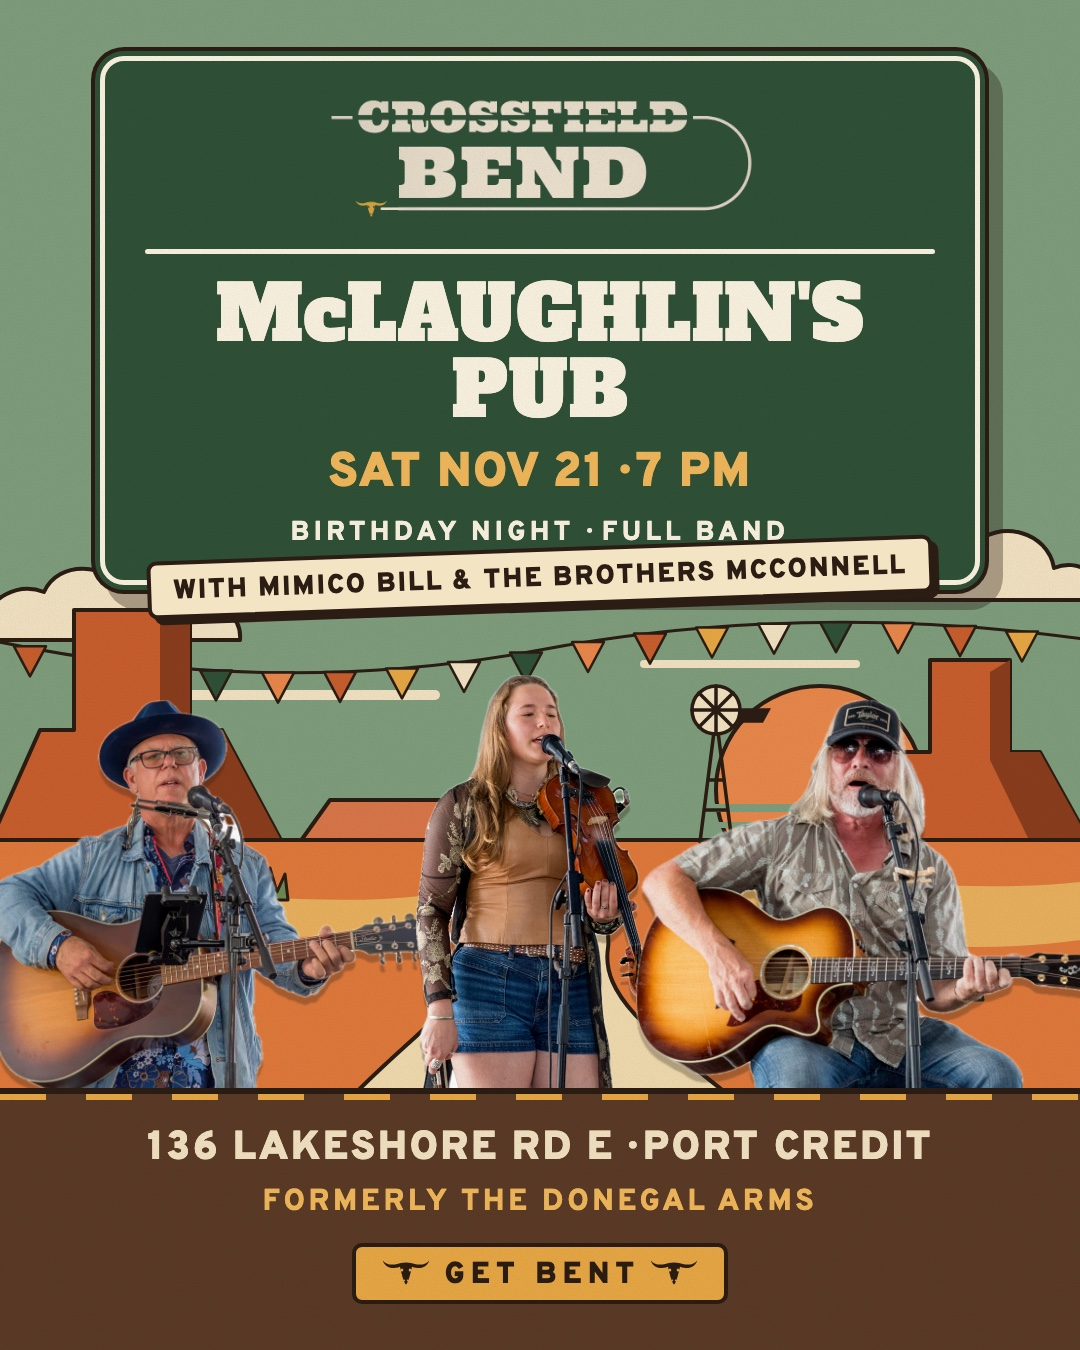
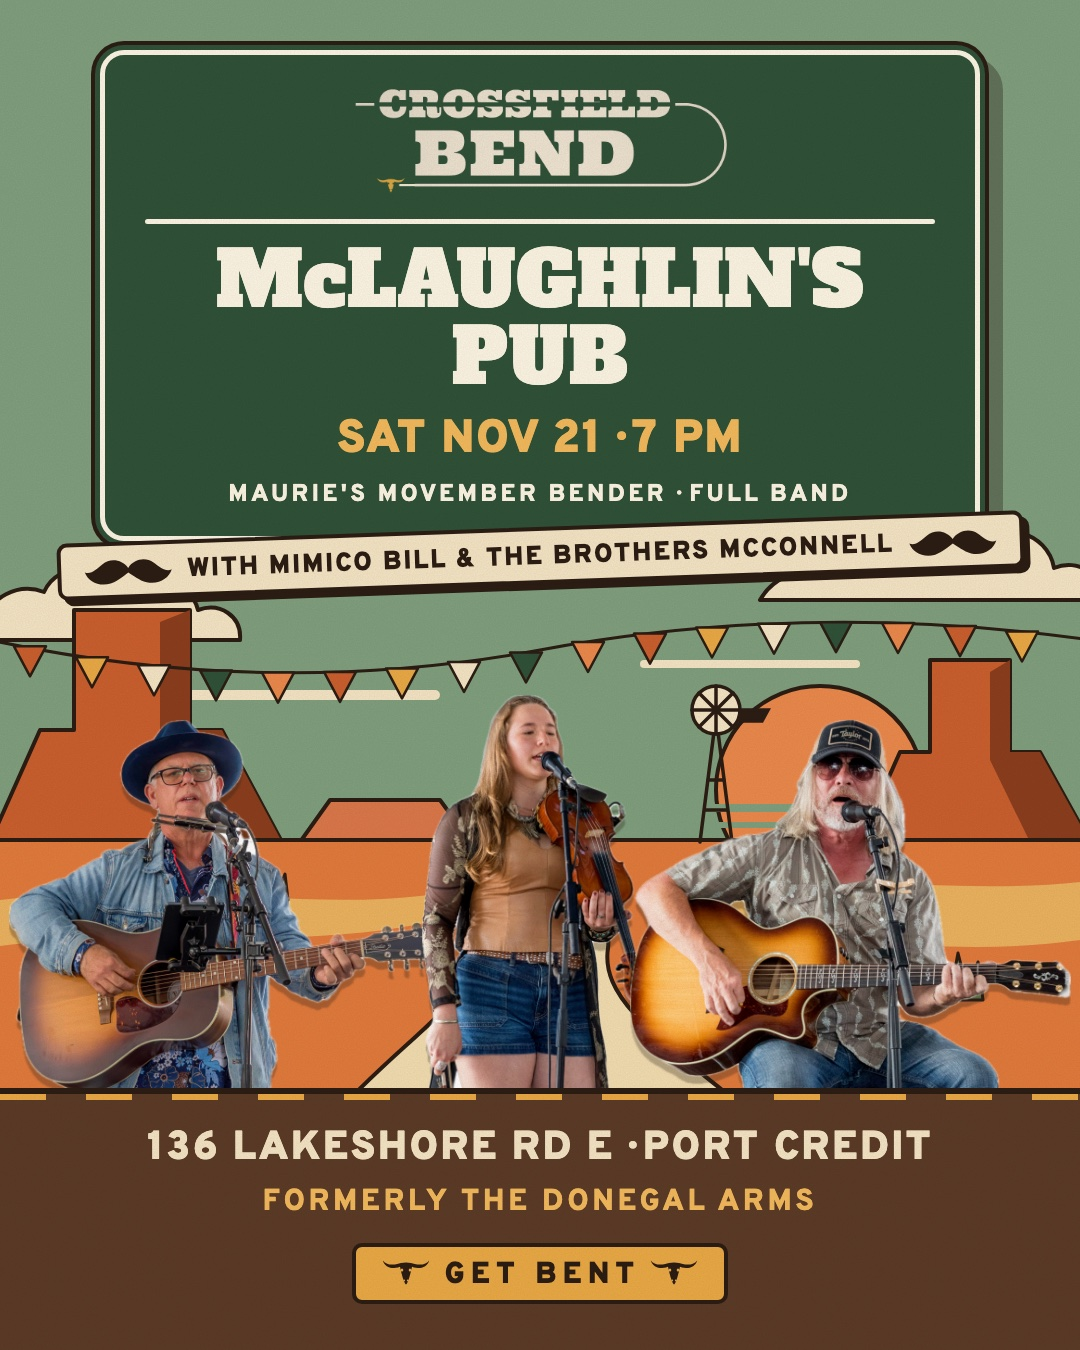
Gig list through New Year's, with a poster for every show
- shows.js matches the band's gig sheet: Maurie's Movember Bender (Nov 21), Bad Santa
  (Dec 10), Festival of Trees (Dec 12), Dave Woods' Christmas Show at the Moonshine Cafe
  (Dec 16), Legion fish and chips (Dec 18), Boxing Day Bender (Dec 26), Polar Bear Dip (Jan 1)
- Tuesday Night Music Club now starts at 7:30
- New posters in the site style for every gig, plus series posters for the Tuesday club
  and the first-Sunday ANAF jam
- Every show row now shows its poster as a thumbnail that opens full size

Changed region(s): [[0.0, 0.0311, 1.0, 0.8089]]

diff --git a/shows.js b/shows.js
@@ -32,18 +32,7 @@
 */
 window.CFB_SHOWS = [
   {
-    title: "Port Credit Legion",
-    venue: "Port Credit Legion",
-    addr: "35 Front St N, Mississauga, ON",
-    area: "Port Credit",
-    start: "2026-11-13T17:30:00-05:00",
-    end: "2026-11-13T20:30:00-05:00",
-    tag: "With Ray Walsh on keys",
-    note: "Roast beef dinner 5–7",
-    poster: "assets/legion-2026-11-13.jpg"
-  },
-  {
-    title: "Birthday night",
+    title: "Maurie's Movember Bender",
     venue: "McLaughlin's Pub",
     addr: "136 Lakeshore Rd E, Mississauga, ON",
     area: "Port Credit",
@@ -57,45 +46,9 @@ window.CFB_SHOWS = [
     venue: "Roc'n Doc's",
     addr: "105 Lakeshore Rd E, Mississauga, ON",
     area: "Port Credit",
-    start: "2026-12-01T19:00:00-05:00",
+    start: "2026-12-01T19:30:00-05:00",
     end: "2026-12-01T23:00:00-05:00",
-    poster: "assets/tuesday-poster-full.jpg"
-  },
-  {
-    title: "Tuesday Night Music Club",
-    venue: "Roc'n Doc's",
-    addr: "105 Lakeshore Rd E, Mississauga, ON",
-    area: "Port Credit",
-    start: "2026-12-15T19:00:00-05:00",
-    end: "2026-12-15T23:00:00-05:00",
-    poster: "assets/tuesday-poster-full.jpg"
-  },
-  {
-    title: "Tuesday Night Music Club",
-    venue: "Roc'n Doc's",
-    addr: "105 Lakeshore Rd E, Mississauga, ON",
-    area: "Port Credit",
-    start: "2026-12-29T19:00:00-05:00",
-    end: "2026-12-29T23:00:00-05:00",
-    poster: "assets/tuesday-poster-full.jpg"
-  },
-  {
-    title: "Tuesday Night Music Club",
-    venue: "Roc'n Doc's",
-    addr: "105 Lakeshore Rd E, Mississauga, ON",
-    area: "Port Credit",
-    start: "2027-01-12T19:00:00-05:00",
-    end: "2027-01-12T23:00:00-05:00",
-    poster: "assets/tuesday-poster-full.jpg"
-  },
-  {
-    title: "Tuesday Night Music Club",
-    venue: "Roc'n Doc's",
-    addr: "105 Lakeshore Rd E, Mississauga, ON",
-    area: "Port Credit",
-    start: "2027-01-26T19:00:00-05:00",
-    end: "2027-01-26T23:00:00-05:00",
-    poster: "assets/tuesday-poster-full.jpg"
+    poster: "assets/poster-tnmc.jpg"
   },
   {
     title: "House of Musical Redemption",
@@ -105,7 +58,81 @@ window.CFB_SHOWS = [
     start: "2026-12-06T13:00:00-05:00",
     end: "2026-12-06T16:00:00-05:00",
     tag: "Jam",
-    note: "First Sunday of the month · all jammers welcome"
+    note: "First Sunday of the month · all jammers welcome",
+    poster: "assets/poster-anaf.jpg"
+  },
+  {
+    title: "Alexander Quail's Bad Santa",
+    venue: "McLaughlin's Pub",
+    addr: "136 Lakeshore Rd E, Mississauga, ON",
+    area: "Port Credit",
+    start: "2026-12-10T20:00:00-05:00",
+    tag: "Special guest appearance",
+    note: "Formerly The Donegal Arms",
+    poster: "assets/poster-2026-12-10.jpg"
+  },
+  {
+    title: "Festival of Trees",
+    venue: "Small Arms Inspection Building",
+    addr: "1352 Lakeshore Rd E, Mississauga, ON",
+    area: "Lakeview",
+    start: "2026-12-12T12:30:00-05:00",
+    end: "2026-12-12T16:30:00-05:00",
+    poster: "assets/poster-2026-12-12.jpg"
+  },
+  {
+    title: "Tuesday Night Music Club",
+    venue: "Roc'n Doc's",
+    addr: "105 Lakeshore Rd E, Mississauga, ON",
+    area: "Port Credit",
+    start: "2026-12-15T19:30:00-05:00",
+    end: "2026-12-15T23:00:00-05:00",
+    poster: "assets/poster-tnmc.jpg"
+  },
+  {
+    title: "Dave Woods' Christmas Show",
+    venue: "The Moonshine Cafe",
+    addr: "568 Kerr St, Oakville, ON",
+    area: "Oakville",
+    start: "2026-12-16T20:00:00-05:00",
+    poster: "assets/poster-2026-12-16.jpg"
+  },
+  {
+    title: "Port Credit Legion",
+    venue: "Port Credit Legion",
+    addr: "35 Front St N, Mississauga, ON",
+    area: "Port Credit",
+    start: "2026-12-18T17:30:00-05:00",
+    end: "2026-12-18T20:30:00-05:00",
+    note: "Fish and chips",
+    poster: "assets/poster-2026-12-18.jpg"
+  },
+  {
+    title: "Boxing Day Bender",
+    venue: "McLaughlin's Pub",
+    addr: "136 Lakeshore Rd E, Mississauga, ON",
+    area: "Port Credit",
+    start: "2026-12-26T14:00:00-05:00",
+    note: "Formerly The Donegal Arms",
+    poster: "assets/poster-2026-12-26.jpg"
+  },
+  {
+    title: "Tuesday Night Music Club",
+    venue: "Roc'n Doc's",
+    addr: "105 Lakeshore Rd E, Mississauga, ON",
+    area: "Port Credit",
+    start: "2026-12-29T19:30:00-05:00",
+    end: "2026-12-29T23:00:00-05:00",
+    poster: "assets/poster-tnmc.jpg"
+  },
+  {
+    title: "Polar Bear Dip",
+    venue: "McLaughlin's Pub",
+    addr: "136 Lakeshore Rd E, Mississauga, ON",
+    area: "Port Credit",
+    start: "2027-01-01T13:00:00-05:00",
+    note: "Formerly The Donegal Arms",
+    poster: "assets/poster-2027-01-01.jpg"
   },
   {
     title: "House of Musical Redemption",
@@ -115,7 +142,26 @@ window.CFB_SHOWS = [
     start: "2027-01-03T13:00:00-05:00",
     end: "2027-01-03T16:00:00-05:00",
     tag: "Jam",
-    note: "First Sunday of the month · all jammers welcome"
+    note: "First Sunday of the month · all jammers welcome",
+    poster: "assets/poster-anaf.jpg"
+  },
+  {
+    title: "Tuesday Night Music Club",
+    venue: "Roc'n Doc's",
+    addr: "105 Lakeshore Rd E, Mississauga, ON",
+    area: "Port Credit",
+    start: "2027-01-12T19:30:00-05:00",
+    end: "2027-01-12T23:00:00-05:00",
+    poster: "assets/poster-tnmc.jpg"
+  },
+  {
+    title: "Tuesday Night Music Club",
+    venue: "Roc'n Doc's",
+    addr: "105 Lakeshore Rd E, Mississauga, ON",
+    area: "Port Credit",
+    start: "2027-01-26T19:30:00-05:00",
+    end: "2027-01-26T23:00:00-05:00",
+    poster: "assets/poster-tnmc.jpg"
   },
   {
     title: "House of Musical Redemption",
@@ -125,7 +171,8 @@ window.CFB_SHOWS = [
     start: "2027-02-07T13:00:00-05:00",
     end: "2027-02-07T16:00:00-05:00",
     tag: "Jam",
-    note: "First Sunday of the month · all jammers welcome"
+    note: "First Sunday of the month · all jammers welcome",
+    poster: "assets/poster-anaf.jpg"
   },
   {
     title: "House of Musical Redemption",
@@ -135,7 +182,27 @@ window.CFB_SHOWS = [
     start: "2027-03-07T13:00:00-05:00",
     end: "2027-03-07T16:00:00-05:00",
     tag: "Jam",
-    note: "First Sunday of the month · all jammers welcome"
+    note: "First Sunday of the month · all jammers welcome",
+    poster: "assets/poster-anaf.jpg"
+  },
+  {
+    title: "Port Credit Legion",
+    venue: "Port Credit Legion",
+    addr: "35 Front St N, Mississauga, ON",
+    area: "Port Credit",
+    start: "2026-11-13T17:30:00-05:00",
+    end: "2026-11-13T20:30:00-05:00",
+    tag: "With Ray Walsh on keys",
+    note: "Roast beef dinner 5–7",
+    poster: "assets/legion-2026-11-13.jpg"
+  },
+  {
+    title: "House of Musical Redemption",
+    venue: "ANAF",
+    addr: "765 Third St, Mississauga, ON",
+    area: "Mississauga",
+    start: "2026-11-08T13:00:00-05:00",
+    end: "2026-11-08T16:00:00-05:00"
   },
   {
     title: "The Ivy Bridge",
@@ -145,13 +212,5 @@ window.CFB_SHOWS = [
     start: "2026-11-07T19:00:00-05:00",
     end: "2026-11-07T23:00:00-05:00",
     poster: "assets/poster.jpg"
-  },
-  {
-    title: "House of Musical Redemption",
-    venue: "ANAF",
-    addr: "765 Third St, Mississauga, ON",
-    area: "Mississauga",
-    start: "2026-11-08T13:00:00-05:00",
-    end: "2026-11-08T16:00:00-05:00"
   }
 ];

diff --git a/index.html b/index.html
@@ -125,6 +125,10 @@
   .show .where{flex:1;min-width:200px}
   .show .where .v{font-family:'Alfa Slab One',Georgia,serif;font-weight:700;font-size:20px}
   .show .where .c{color:var(--muted);font-size:15px}
+  .thumb{flex:0 0 auto;display:block;width:72px;border:var(--edge);border-radius:8px;overflow:hidden;box-shadow:3px 3px 0 var(--ink);transform:rotate(-2deg);transition:transform .15s}
+  .thumb:hover{transform:rotate(0) scale(1.06)}
+  .thumb img{width:100%;height:auto;display:block}
+  @media(max-width:760px){.show{display:grid;grid-template-columns:72px 1fr auto;column-gap:14px;align-items:start}.show .thumb{grid-row:1 / span 2}.show .date{grid-column:2}.show .where{grid-column:2}.show .route{grid-column:3;grid-row:1 / span 2;width:64px}}
   .route{width:78px;height:auto;flex:0 0 auto;filter:drop-shadow(3px 3px 0 var(--ink))}
 
   /* Band + players */

diff --git a/shows-render.js b/shows-render.js
@@ -54,6 +54,7 @@
 
   function rowHTML(s) {
     return '<div class="show">' +
+      (s.poster ? '<a class="thumb" href="' + esc(s.poster) + '" target="_blank" rel="noopener" aria-label="Poster: ' + esc(label(s)) + '"><img src="' + esc(s.poster) + '" width="1080" height="1350" loading="lazy" alt=""></a>' : '') +
       '<div class="date">' + esc(wd(s.s)) + ' · ' + esc(md(s.s)) + '</div>' +
       '<div class="where"><div class="v">' + esc(label(s)) + (s.tag ? ' <span class="tagchip">' + esc(s.tag) + '</span>' : '') + '</div>' +
       '<div class="c">' + esc(s.addr) + (s.area && s.addr.indexOf(s.area) < 0 ? ' · ' + esc(s.area) : '') + '</div>' +
